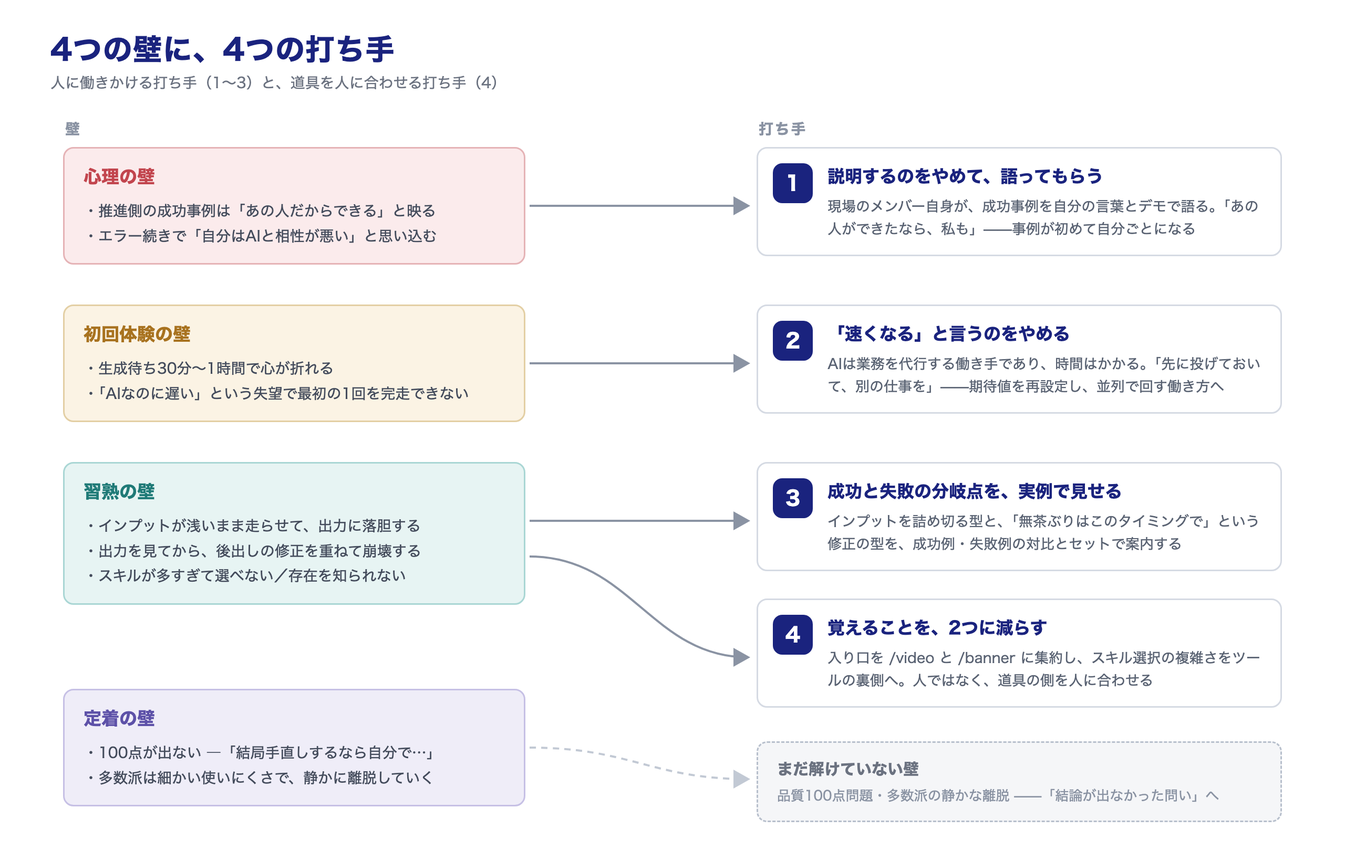
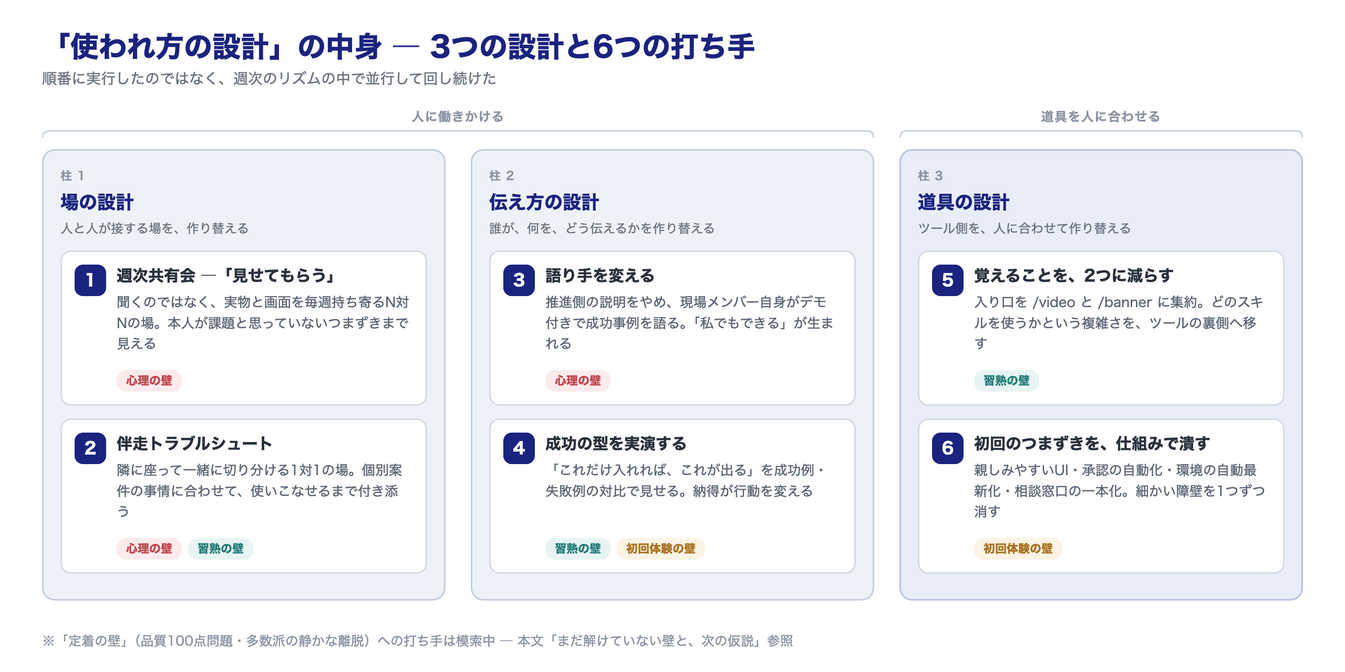
feat: 記事#11を最終版に全面改稿 — タイトル確定・3つの設計×6打ち手・図3枚構成
- タイトル「AIツールは、作っただけでは使われない ― 現場定着の4つの壁」に確定
- 打ち手を「場・伝え方・道具」の3本柱×6つに再構成（伴走トラブルシュートを追加）
- 「一旦投げとく」を学びの本論へ移動——期待値再設定→インパクト実感→好循環の連鎖として言語化
- 結果にスキル利用率ほぼ100%を追加、日本語表現の全面推敲
- 図3枚: 4つの壁×23障壁（横並び）/ 3つの設計×6打ち手 / 好循環vs悪循環
- content-registryのタイトル・summary・topics更新

Claude-Session: https://claude.ai/code/session_012RuZz59BbJzKkWMYC1548E

diff --git a/articles/11_ai-adoption-practice.md b/articles/11_ai-adoption-practice.md
@@ -1,5 +1,5 @@
 ---
-タイトル: AIで仕事は速くならない ― 現場定着の壁と、効いた4つの打ち手
+タイトル: AIツールは、作っただけでは使われない ― 現場定着の4つの壁
 カテゴリ: 組織・人材論
 発表者: 渡橋勇輝
 公開日誌日: 2026-07-06
@@ -9,146 +9,222 @@
 
 【BizDev公開日誌 #11】
 
-「導入した」と「使われている」は、別物——前回の記事で、私たちはAIツールと現場のあいだに必要な「橋渡し」について書きました。今回はその実践編です。橋渡しを実際にやってみて、何が壁になり、どの打ち手が効いて、何が変わったのか。広告クリエイティブ制作のためのAIツール群——字コンテ、バナー、LPを生成するスキル——を、クリエイティブ制作チームに定着させる取り組みの数ヶ月を記録します。
+私たちはこの数ヶ月、広告クリエイティブ制作のためのAIツール群——字コンテ、バナー、LPを生成するスキル——を開発し、クリエイティブ制作チームに使ってもらう取り組みを続けてきました。
 
-作る側としては、品質に手応えがありました。実際に触ってもらえば、価値は伝わるはずだと。しかし、現実は違いました。使われてはいる。でも修正が多く、満足度は上がりきらない。整備したマニュアルは読まれない。質問も来ない。そして、生成待ちの1時間のあいだに、静かに心が折れていく人がいる。
+作る側としては、品質に手応えがありました。実際に触ってもらえば、価値は伝わるはずだと。
 
-先に種明かしをすると、定着を止めていたのは、ツールの性能ではありませんでした。壁は1つではなく、性質の違う4種類が重なっていた。そして、壁ごとに打ち手を変えたとき、初めて状況が動き始めました。
+しかし、現実は違いました。使われてはいる。でも修正が多く、満足度は上がりきらない。整備したマニュアルは読まれない。質問も来ない。そして、生成待ちの1時間のあいだに、静かに心が折れていく人がいる。
 
-[PUNCHLINE] ツールは変えていない。変えたのは「使われ方の設計」だけ。
+先に種明かしをすると、定着を止めていたのは、ツールの性能ではありませんでした。壁は1つではなく、性質の違う4種類が重なっていた。そして、壁ごとに打ち手を変えたとき、初めて状況が動き始めました。**ツールは変えていない。変えたのは「使われ方の設計」だけ**——これがこの記事の結論です。
+
+もう1つ、白状しておくと、私たちは伝え方も間違えていました。「AIを使えば速くなります」と案内していたのです。この一言が定着をどれだけ妨げていたかは、後半で書きます。
+
+## つくる側の誤算 ―「いいツールなら使われる」は幻想だった
+
+振り返ると、私たちの頭の中には素朴な方程式がありました。「品質の高いツールを作る → 触ってもらう → 価値が伝わる → 使われる」。だから品質を磨くことに時間を使い、使われない理由もまず品質に求めました。
+
+でも、現場で起きていたことは違いました。
+
+- ツールは使われている。しかし出力への修正が多く、「結局手直しするなら……」という空気が漂う
+- 丁寧に作ったマニュアルが、ほとんど参照されていない
+- 質問が来ない。うまくいっていないのに、何も聞かれない
+- 生成待ちの時間に、誰にも言わずに諦めている人がいる
+
+「使われていない」のではなく、「使われているのに、定着していない」。この症状の正体を特定しないことには、打ち手の立てようがありませんでした。
 
 ## 教科書は、ありませんでした
 
-取り組みの最初、私たちはまず先人の知恵に頼ろうとしました。AX・DX関連の書籍やWeb記事を片っ端からあたりましたが、出てくるのは「ビジネスモデルを変革せよ」という壮大な話ばかり。「現場のクリエイターにAIツールを使ってもらうには、具体的にどうすればいいか」という粒度の情報は、ほとんど存在しませんでした。
+取り組み始めた当初、私たちはまず先人の知恵に頼ろうとしました。AX・DX関連の書籍やWeb記事を片っ端からあたりましたが、出てくるのは「ビジネスモデルを変革せよ」という壮大な話ばかり。「現場のクリエイターにAIツールを使ってもらうには、具体的にどうすればいいか」という粒度の情報は、ほとんど存在しませんでした。
 
-考えてみれば当然で、この粒度の試行錯誤は各社の現場の中に埋まっていて、外には出てきません。答えが外にないなら、自分たちの現場から取るしかない。
+考えてみれば当然で、この粒度の試行錯誤は各社の現場の中に埋まっていて、外には出てきません。答えが外にないなら、自分たちの現場で見つけるしかない。
 
-そこで土台にしたのが、週次の「AI制作共有会」です。クリエイティブ制作チームの一人ひとりに、その週に何を作り、どこで詰まったかを、口頭の報告ではなく実際の画面やアウトプットと一緒に持ち寄ってもらう。うまくいった話だけでなく、失敗も同じテーブルに載せる。ヒアリングで「困っていることはありますか」と聞いても本音は出てきませんが、実物を見せてもらうと、本人が課題と認識していないつまずきまで見えてきます。
+そこで土台にしたのが、週次の「AI制作共有会」です。クリエイティブ制作チームの一人ひとりに、その週に何を作り、どこで詰まったかを、口頭の報告ではなく実際の画面やアウトプットと一緒に持ち寄ってもらう。うまくいった話だけでなく、失敗も同じテーブルに載せる。
 
-読み物としての事例を100本集めるより、自分たちの現場の一次情報を毎週定点観測するほうが、はるかに情報量が多い。ここから先のすべての打ち手は、この場から生まれています。
+これを続けて分かったのは、ヒアリングで「困っていることはありますか」と聞いても本音は出てこない、ということです。実物を見せてもらうと、本人が課題と認識していないつまずき——変な回り道、惜しい入力、諦めの早さ——まで見えてきます。
 
-## 壁は、1つではありませんでした
+## 使いこなしを阻む「4つの壁」― 観測してわかった障壁の全体像
 
-毎週の観測を続けると、「定着しない」という1つの現象の裏に、性質のまったく違う壁が何層も重なっていることが見えてきました。大きく4種類あります。
+毎週の観測を続けると、「定着しない」という1つの現象の裏に、性質のまったく違う壁が何層も重なっていることが見えてきました。使い始めから定着までの順に、大きく4種類あります。
 
-**心理の壁。** 推進側の成功事例は「あの人だからできる」と受け取られます。さらに深刻なのは、環境起因のエラーに連続で当たった人が、「自分だけAIと相性が悪い気がする」と、環境の問題を自分の適性の問題に変換してしまうことでした。そうなると、「元の自分のやり方のほうが早い」という引力に簡単に引き戻されます。
+![AIツールが定着しない裏側にある4つの壁。心理の壁・初回体験の壁・習熟の壁・定着の壁の順に、計23の障壁が現れる](../assets/article-images/11_ai-adoption-practice/img_01.png)
 
-**初回体験の壁。** 黒い画面（ターミナル）への抵抗感。認証・APIキー・アクセス権といった「スキル以前」の環境手続きでのつまずき。裏側の処理の許可を何度も求められ、「内容を見ても判断がつかない」まま手が止まる。そして、ようやく動いた最初の生成で30分〜1時間待たされる。ここで多くの人が、最初の1回を完走できずに離脱します。
+### 心理の壁 ― 使い始める前に立ち止まる
 
-**習熟の壁。** スキルは増やすほど現場が便利になるはず——が、実際には「どのスキルが何をしてくれるのか分からない」という声が増えていきました。新しいスキルの告知は各部署のチャンネルにバラバラに流れて、そもそも存在を知られない。使い始めても、インプットが浅いまま走らせて出力に落胆する。出力を見てから「やっぱりこうしたい」と後出しの修正を重ねて、崩壊する。
+最初の壁は、ツールに触れる前の心の中にあります。
 
-**定着の壁。** 出力は100点ではないので、「結局手直しするなら、自分でやったほうが……」となる。そして品質基準の厳しい多数派ほど、細かい使いにくさを口に出さず、静かに離れていきます。
+- **推進側の成功事例は「あの人だからできる」と映る。** 作った本人がうまく使えるのは当たり前で、聞く側にとっては自分ごとにならない
+- **エラー続きで「自分はAIと相性が悪い」と思い込む。** 実際には認証や環境設定の問題なのに、連続でつまずいた人はそれを自分の適性の問題として受け止めてしまう
+- **「元の自分のやり方のほうが早い」に引き戻される。** 初期の試行錯誤コストは、手慣れた従来手法への強力な引力になる
+- **忙しくて、新しいやり方を試す余裕がない**
+- **不満やつまずきを、自分からは言い出せない。** 聞かれても「大丈夫です」と答えてしまう
+- **AIで作った成果は、実力を割り引いて見られる気がする。** 使うほど評価が下がるかもしれない、という漠然とした不安
 
-![AIツールが定着しない4つの壁のツリー図。心理の壁・初回体験の壁・習熟の壁・定着の壁のそれぞれに、週次のAI制作共有会で観測された障壁が5〜6個ずつ紐づく（全23個）](../assets/article-images/11_ai-adoption-practice/img_01.png)
+やっかいなのは、この壁が「見えない」ことです。本人は何も言わずに、ただ使わなくなります。
 
-大事なのは、これらが性質の違う壁だということです。壁を特定しないまま「研修をやろう」「マニュアルを作ろう」と打っても、当たりません。実際、私たちが最初に整備したマニュアルは、ほとんど読まれませんでした。中身が悪かったからではなく、打つべき壁を間違えていたからです。
+### 初回体験の壁 ― 最初の1回にたどり着けない
 
-以下、壁とセットで、特に効果のあった打ち手を4つ紹介します。先に断っておくと、4つの壁をすべて崩せたわけではありません。どの壁が残っているかは、最後に正直に書きます。
+心理の壁を越えて「試してみよう」と思った人を、今度は物理的なつまずきが待ち構えます。
 
-![4つの壁と4つの打ち手の対応マップ。心理の壁→打ち手1「説明するのをやめて、語ってもらう」、初回体験の壁→打ち手2「『速くなる』と言うのをやめる」、習熟の壁→打ち手3「成功と失敗の分岐点を実例で見せる」と打ち手4「覚えることを2つに減らす」。定着の壁はまだ解けておらず「結論が出なかった問い」へつながる](../assets/article-images/11_ai-adoption-practice/img_02.png)
+- **黒い画面（ターミナル）への抵抗感。** 非エンジニアにとって、あの画面は「自分の領域ではない」というサインに見える
+- **認証・APIキー・アクセス権など「スキル以前」の手続きで止まる。** ツールの良し悪し以前に、スタートラインに立てない
+- **実行環境によって挙動が違い、謎のエラーに当たる。** 同じスキルなのに、人によって動いたり動かなかったりする
+- **裏側処理の承認を何度も求められ、判断がつかない。** 「この処理を許可しますか」と聞かれても、内容を見て判断できる人はいない
+- **生成待ち30分〜1時間で心が折れる。** 画面の前でじっと待った人は、確実に離脱する
+- **何を入れたら、何が、何分後に出るのか、先が見えない。** 見通しのない待ち時間は、実際より何倍も長く感じられる
 
-## 打ち手1：説明するのをやめて、語ってもらうことにした
+初回体験でつまずいた人の再挑戦率は、体感でかなり低い。「最初の1回」の設計は、それほど重要でした。
 
-**——「推進側の成功事例は、自分ごとにならない」という心理の壁に対して**
+### 習熟の壁 ― 使えるのに、成果が出ない
 
-当初の共有会では、私たちBizDev側が使い方や成功事例を説明していました。しかし、これがほとんど効きませんでした。
+最初の1回を越えても、「使える」と「成果が出る」のあいだには、まだ距離があります。ここが成否の分岐点でした。
 
-構図を考えれば当然です。作った本人がうまく使えるのは当たり前で、聞く側には「それはあなただからできる」と映る。どれだけ事例の数を増やしても、語り手が推進側である限り、「私でもできる」には変換されないのです。
+- **スキルが多すぎて、どれを使えばいいか分からない。** 作った側には自明でも、使う側から見ればカタログのないツール棚
+- **告知が分散して、スキルの存在自体を知られない。** 新しいスキルの案内が各部署のチャンネルにバラバラに流れ、届く人にしか届かない
+- **インプットが浅いまま走らせて、出力に落胆する。** 頭の中の情報を言語化せずに投げると、それなりのものしか出てこない
+- **出力を見てから、後出しの修正を重ねて崩壊する。** 完成物を見てから直したくなるのは人間の性だが、工程を無視した修正は制作の流れ全体を壊してしまう
+- **工程の仕組みを知らず、反映されない指示をしてしまう。** どの段階で何が確定するのかを知らないと、指示が空振りする
+- **うまくいかない時、粘るか引き直すかを判断できない。** 悪い出力に固執して修正を重ねるより、ゼロから再生成したほうが早い場面は多い
 
-そこで、共有会の構成を変えました。私たちが説明するのをやめ、クリエイティブ制作チームのメンバー自身にスピーカーになってもらい、成功事例を本人の言葉で、実際のデモを交えて語ってもらうことにしたのです。
+### 定着の壁 ― 続かない、広がらない
+
+そして最後に、使い続けてもらうための壁が残ります。
+
+- **100点が出ない。**「結局手直しするなら、自分でやったほうが……」という論理は、それなりに正しいだけに強い
+- **多数派は細かい使いにくさで、静かに離脱していく。** アーリーアダプターは多少の不便を我慢してくれるが、品質基準の厳しい多数派は不便を口に出さずに離れる
+- **マニュアルが「作り方」止まりで、実務まで完結しない。** 生成のやり方は書いてあっても、クライアントの修正要求に応えて「完成させる」までの手順が書かれていない
+- **AIを使えない案件があり、使う習慣が途切れる。** 商材や規制の制約で使えない案件を挟むと、せっかくの習慣がリセットされる
+- **利用上限・クレジット切れで、勢いが止まる。** 乗ってきたタイミングでの強制停止は、想像以上に熱を冷ます
+
+## 壁への対処 ―「使われ方の設計」は、3つの設計だった
+
+壁の全体像が見えてから、私たちは打ち手を重ねていきました。あとから振り返ると、やっていたことは3種類の「設計」に整理できます。**場の設計、伝え方の設計、道具の設計**。冒頭で「変えたのは使われ方の設計だけ」と書きましたが、その中身がこの3つです。
+
+断っておきたいのは、これらを順番に実行したわけではない、ということです。3つの設計は、週次のリズムの中で並行して回し続けました。そしてもう1つ、4つの壁をすべて崩せたわけでもありません。どの壁が残っているかは、最後に正直に書きます。
+
+![「使われ方の設計」の中身。場の設計（週次共有会・伴走トラブルシュート）、伝え方の設計（語り手を変える・成功の型を実演）、道具の設計（入り口の集約・つまずきの仕組み化）の3本柱×6つの打ち手](../assets/article-images/11_ai-adoption-practice/img_02.png)
+
+### 柱1【場の設計】― 人と人が接する場を、作り替える
+
+ツールを配って個人に任せきりにすると、つまずきは誰にも気づかれないまま放置されます。そこで、人が集まる「場」を意図的に用意しました。みんなで見せ合う場と、1対1で寄り添う場の2つです。
+
+#### 打ち手① 週次共有会 ―「言えない」を「見せてもらう」に変えた
+
+**→ 心理の壁「言い出せない」／全打ち手の観測基盤**
+
+共有会でのポイントは、「困っていることはありますか」と聞くのをやめて、「今週作ったもの、ちょっと画面ごと見せてください」に変えたことです。すると、本人が課題と思っていないつまずきが山ほど見つかります。逆に、こちらが想像もしていなかった上手な使い方も見つかる。成功と失敗の両方が同じテーブルに載ることで、後述する「分岐点の分析」が可能になりました。
+
+言い出せない人から話を引き出す最良の方法は、話させることではなく、見せてもらうことでした。
+
+#### 打ち手② 伴走トラブルシュート ― 隣に座って、一緒に切り分ける
+
+**→ 心理の壁「自分はAIと相性が悪い」／習熟の壁「個別案件でつまずく」**
+
+共有会がN対Nの場だとすれば、こちらは1対1の場です。
+
+スキルは汎用的に作りますが、案件は1つひとつ事情が違います。この商材ではこの表現が使えない、このクライアントは素材の要件が特殊——**個別案件の事情に合わせてスキルを使いこなせるようになるまでは、最初は隣に座って一緒にやるしかない**。それが伴走です。
+
+やること自体は派手ではありません。つまずいているメンバーと画面を一緒に見ながら、問題を1つずつ切り分ける。あるメンバーは、エラーが続いて「僕だけ、AIと相性が悪いんですよね」と言っていました。しかし一緒に画面を見ていくと、原因は本人ではなく認証まわりの環境設定。切り分けてしまえば、その日のうちに解決する話でした。ここで大事なのは速さです。**環境の問題を「自分の適性の問題」と誤認したまま放置すると、その人は二度と戻ってきません。**
+
+伴走の場では、運用のコツもその場で合意していきました。「初稿は70点でいい。仕上げは役割分担しよう」「うまくいかない出力に修正を重ねるより、ゼロから引き直したほうが早い」。マニュアルに書いても読まれなかったことが、自分の案件を題材にすると、その場で身につく。一般論では動かない人も、自分の案件でなら動きます。
+
+### 柱2【伝え方の設計】― 誰が、何を、どう伝えるかを作り替える
+
+場が整っても、伝え方を間違えると人は動きません。私たちは「誰が伝えるか」と「どう伝えるか」の2つを作り替えました。
+
+#### 打ち手③ 語り手を変える ― 説明するのをやめて、語ってもらう
+
+**→ 心理の壁「あの人だからできる」**
+
+当初の共有会では、私たちBizDev側が使い方や成功事例を説明していました。ただ、このやり方では浸透までに時間がかかりそうでした。作った本人がうまく使えるのは当たり前で、聞く側には「それはあなただからできる」と映りやすい。事例の数を増やしても、語り手が推進側である限り、「私でもできる」への変換はなかなか進まないのです。
+
+そこで、共有会の構成を変えました。私たちが説明するのをやめ、クリエイティブ制作チームのメンバー自身にスピーカーになってもらい、成功事例を本人の言葉で、実際のデモを交えて語ってもらうことにしました。
 
 効果ははっきり出ました。象徴的だったのが、メンバーの一人による動画素材の大量生成の回です。8シーン×2パターン、動画16本と静止画16枚、計32ファイルを、着手から納品まで1時間21分で仕上げた——従来の感覚なら「2〜3日はかかる」と誰もが見積もる分量です。本人が自分の画面で、どう指示し、どう待ち、どう仕上げたかを語ると、会の空気が変わる瞬間がはっきり分かりました。
 
-「あの人ができたなら、私もできるかもしれない」。そしてもう一つ、「同じ職種の人がここまでやっているなら、自分もやらないとまずい」という健全な焦り。同じ現場の、同じ職種の人が語ることで、成功事例は初めて自分ごとになります。
+「あの人ができたなら、私もできるかもしれない」。そしてもう1つ、「同じ職種の人がここまでやっているなら、自分もやらないとまずい」という健全な焦り。同じ現場の、同じ職種の人が語ることで、成功事例は初めて自分ごとになります。推進側が100回説明するより、現場の1回のほうが効く——この取り組みで最も確信を持てた学びの1つです。
 
-[PUNCHLINE] 推進側が100回説明するより、現場の1回のほうが効く。
+#### 打ち手④ 成功の型を実演する ―「これだけ入れれば、これが出る」
 
-## 打ち手2：「速くなる」と言うのをやめた
+**→ 習熟の壁「インプットが浅い」／初回体験の壁「先が見えない」**
 
-**——「生成待ちの時間で心が折れる」という初回体験の壁に対して**
+共有会に成功例と失敗例の両方が持ち寄られるようになって、決定的な発見がありました。同じLP制作スキルを使った2つのケースが、対照的な結果になったのです。一方はほぼ一発でデザイナーとの合意まで進み、もう一方は修正が重なって崩壊しかけた。
 
-もう一つ、根深かった壁が「待ち時間」でした。動画素材の生成には30分から1時間かかります。画面の前でじっと待っていた人は、確実に心が折れます。「AIなのに、遅い」と。
+分岐点は、スキルの性能ではありませんでした。うまくいったケースは、オリエンフォーマット——制作要件を整理する入力シート——を事前に詳細に詰め切ってから投げていました。どの訴求で、何を、どう作るか。入力に迷いがない状態でAIに渡している。うまくいかなかったケースは、入力を省略して頭の中の情報のまま走っていました。
 
-ここで気づいたのは、折れる原因は待ち時間そのものではなく、期待値の設定を私たちが間違えていたことでした。
+この対比はそのまま、何よりの教材になりました。共有会で「これだけ入れれば、これが出てくる」を目の前で実演すると、意外なほど納得してもらえます。抽象的に「インプットが大事です」と言われても人は動きませんが、同じツールで成功と失敗が分かれた実例を見ると、行動が変わる。**インプットに迷いがなければ、AIは滑らかに走る**——この感覚を、実例の共有を重ねて広げていきました。
 
-世の中のAI言説は「速くなる」一色です。私たちも最初はそう伝えていました。しかし、AIツールの実態は違います。
+### 柱3【道具の設計】― ツール側を、人に合わせて作り替える
 
-[PUNCHLINE] AIは作業を速くする道具ではない。業務を代行する働き手である。
+柱1・柱2は「人に働きかける」設計です。それに対して柱3は「道具を人に合わせる」設計。**人の行動を変えるには数ヶ月かかりますが、道具の側を作り替えるのは、AI時代には数日、ときには一晩でできます。**この非対称性は、定着を考えるうえで強力な武器になります。
 
-業務を丸ごと任せて、ちゃんとした成果物を作り込ませれば、それなりの時間がかかります。「速い」と期待して使えば、裏切られたと感じるのは当然でした。つまりこの壁の正体は、ツールの遅さではなく、期待値と実態のギャップです。ギャップは、伝え方で埋められます。
+#### 打ち手⑤ 覚えることを、2つに減らした ― 入り口の集約
 
-だから、こう変えました。「速くなります」ではなく——
+**→ 習熟の壁「スキルが多すぎて選べない」「存在を知られない」**
 
-「時間はかかります。だから先に投げておいて、別の仕事をしてください」
+スキルを増やすほど現場は便利になるはず——これも誤算でした。制作用のスキルが増えるにつれて、「どのスキルが何をしてくれるのか分からない」という声が増えていったのです。しかも新しいスキルの告知は各部署のチャンネルに散らばり、届く人にしか届かない。「スキルはあるのに、知られていないから使われない」という、もったいない状態が生まれていました。
 
-実は、使いこなしているメンバーはこれを無意識にやっていました。生成を裏で回しながら、別の案件を進める。複数の生成を同時に走らせる。夜に仕込んでおいて、朝に確認する。ただ、無意識のままでは誰にも伝わりません。「一旦投げとく」を公式の使い方として言語化したことで、チームの期待値が変わり、入り口で挫折する人が目に見えて減りました。
+対処はシンプルで、**入り口を集約する**ことでした。動画を作りたければ /video、バナーなら /banner。覚えるのはこの2つだけ。あとは要望を伝えれば、裏側で適切なスキルが自動的に選ばれて動きます。どのスキルを使うかという選択の複雑さを、ユーザーの手元からツールの裏側へ移した形です。
 
-そして、この働き方が馴染んでくると、生産性の意味そのものが変わってきます。1本あたりの生成時間は、今も昔も変わりません。しかし20本を並列で投げれば、1時間後には「1本あたり実質数分」で仕上がっている計算になります。先ほどの32ファイルの事例も、生成中に人が張り付いていた時間はほぼゼロ。「今夜中に50本必要」という無茶な状況ですら、寝る前に仕込んでおけば間に合う——現場からは、そんな運用感覚まで出てくるようになりました。
+#### 打ち手⑥ 初回のつまずきを、仕組みで潰した
 
-AIの生産性は「1タスクが何分速くなったか」には現れません。「裏で何本並列で走っているか」に現れます。そしてこの業務の進め方——投げて、待たずに、並べる——が組織に馴染んだとき、1人が同時に担当できる案件数という形で、初めて経営レベルの数字が動き始めます。ツールの導入ではなく、業務フローの組み替え。生産性の正体は、こちら側にありました。
+**→ 初回体験の壁「黒い画面」「承認の連打」「環境の劣化」**
 
-## 打ち手3：成功と失敗の分岐点を、実例で見せた
+初回体験の壁で見つかった物理的なつまずきを、1つずつ仕組みで潰していきました。
 
-**——「インプットが浅い」「後出しの修正で崩壊する」という習熟の壁に対して**
+- 黒い画面に抵抗がある人には、デスクトップ版など親しみやすいUIを案内する
+- 「この処理を許可しますか」の連打には、安全な範囲で自動承認されるモードでの起動方法を用意する
+- ファイル環境が古くなって壊れる問題には、起動時に自動で最新化される仕組みを仕込む
+- エラーや使い方の相談は、専用の窓口フォームに一本化して、たらい回しを防ぐ
 
-共有会には、成功例だけでなく失敗例も持ち寄られます。あるとき、同じLP制作スキルを使った2つのケースが、対照的な結果になりました。一方はほぼ一発でデザイナーとの合意まで進み、もう一方は修正が重なって崩壊しかけた。
-
-分岐点は、スキルの性能ではありませんでした。
-
-うまくいったケースは、オリエンフォーマット——制作要件を整理する入力シート——を事前に詳細に詰め切ってから投げていました。どの訴求で、何を、どう作るか。入力に迷いがない状態でAIに渡している。一方うまくいかなかったケースは、入力を省略して頭の中の情報のまま走り、出力を見てから「やっぱりランキングを入れたい」「ここを変えたい」と、後出しの要望を重ねていました。
-
-完成物を見てから直したくなるのは、人間の性です。私たち自身、クライアントの立場なら同じことをするでしょう。だから「後出しをやめてください」とは言いません。代わりに、工程の作法を決めました。
-
-AIの制作パイプラインは、文字の構成案 → HTMLの構成 → 画像・デザインと段階が分かれていて、それぞれに「ここまでに言ってもらえれば反映できる」というゲートがあります。言いたいことはHTMLの段階までに言い切る。最後の画像の仕上がりは当たり外れのある「ガチャ」なので、そこでこだわり続けるより引き直したほうが早い。——この作法を、「要望や無茶ぶりは大歓迎。ただし、このタイミングで」という型にして、成功例・失敗例の対比とセットで案内するようにしました。
-
-「これだけ入れれば、これが出てくる」を実演すると、意外なほど納得してもらえます。
-
-[PUNCHLINE] インプットに迷いがなければ、AIは滑らかに走る。
-
-## 打ち手4：覚えることを、2つに減らした
-
-**——「スキルが多すぎて、どれが何をしてくれるのか分からない」という習熟の壁に対して**
-
-スキルを増やすほど現場は便利になるはず——これも誤算でした。制作用のスキルが増えるにつれて、「どのスキルが何をしてくれるのか分からない」という声が増えていったのです。作った側には自明でも、使う側から見ればカタログのないツール棚です。しかも新しいスキルの告知は各部署のチャンネルに散らばり、届く人にしか届かない。「スキルはあるのに、知られていないから使われない」という、もったいない状態が生まれていました。
-
-対処はシンプルで、入り口を集約することでした。動画を作りたければ /video、バナーなら /banner。覚えるのはこの2つだけ。あとは要望を伝えれば、裏側で適切なスキルが自動的に選ばれて動きます。どのスキルを使うかという選択の複雑さを、ユーザーの手元からツールの裏側へ移した形です。あわせて、スキルの告知も1つの場所に集約しました。
-
-注目したいのは、アプローチの違いです。打ち手1〜3は「人に働きかける」——見せ方を変え、期待値を変え、作法を教える。それに対してこの打ち手は「道具を人に合わせる」。人の行動を変えるには数ヶ月単位の時間がかかりますが、道具の側を作り替えるのは、AI時代には数日、ときには一晩でできます。
-
-[PUNCHLINE] 人を変えるには数ヶ月かかる。道具を変えるのは、一晩でできる。
+1つひとつは地味です。しかし初回体験の壁は「細かいつまずきの積み重ね」でできているので、対処も積み重ねるしかありません。ここを「本人のリテラシーの問題」と片付けた瞬間に、定着は止まります。
 
 ## 結果、何が変わったか
 
 数ヶ月の取り組みを経て、目に見える変化が出てきました。
 
-- 動画素材の大量生成が実案件で回り始めた（32ファイル・1時間21分。従来の見積もりは2〜3日）
-- メンバーがAIで制作したメインバナーが、複数案のコンペで採用された
-- 入力を詰め切って投げたLPが、構成修正なしの一発でデザイナー合意まで進んだ
-- そして何より、「生成を裏で回しながら別の仕事をする」働き方が、こちらが言わなくても自然に広がり始めた
+- **スキルの利用率が、ほぼ100%になった。** クリエイティブ制作チームのほぼ全員が、日々の制作でスキルを使う状態になった
+- **動画素材の大量生成が実案件で回り始めた。** 32ファイルを1時間21分で納品（従来の見積もりは2〜3日）。人が張り付いていた時間はほぼゼロ
+- **メンバーがAIで制作したメインバナーが、複数案のコンペで採用された。** 速いだけでなく、品質で選ばれた
+- **入力を詰め切って投げたLPが、構成修正なしの一発でデザイナー合意まで進んだ**
+- **字コンテ素材の量産が定常化した。** 週次で成果物が積み上がるペースになった
+- そして何より、**「生成を裏で回しながら別の仕事をする」働き方が、こちらが言わなくても自然に広がり始めた**
 
-強調したいのは、この間、道具の性能はほとんど変わっていないことです。変わったのは、使われ方の設計だけ。それでこれだけの差が出た——この事実が、私たちには何より重要でした。
+強調したいのは、この間、道具の性能はほとんど変わっていないことです。変わったのは、使われ方の設計——場と、伝え方と、道具。それでこれだけの差が出た——この事実が、私たちには何より重要でした。
 
-## 結論が出なかった問い
+## 学んだこと
+
+この数ヶ月を振り返って、学びは2つに集約されます。
+
+**1. 定着は、ツールの性能ではなく「使われ方の設計」で決まる。**
+壁は性質の違うものが4種類重なっています。壁を特定しないまま打つ施策——研修、マニュアル、機能追加——は当たりません。まず観測し、壁を見極め、壁ごとに打ち手を変える。遠回りに見えて、これが最短でした。
+
+**2. 最後の分かれ目は、仕事の進め方そのものを変えられるかだった。**
+
+冒頭で「伝え方を間違えていた」と書いた話を、ここで回収します。
+
+世の中のAI言説は「速くなる」一色で、私たちも最初はそう伝えていました。しかし、AIツールの実態は、作業の高速化というより**業務の代行**に近い。ちゃんとした成果物を作り込ませれば、動画素材の生成なら30分から1時間かかります。「速い」と期待した人が画面の前で1時間待たされれば、裏切られたと感じるのは当然でした。だから伝え方を変えました。「速くなります」ではなく、**「時間はかかります。だから先に投げておいて、別の仕事をしてください」**。
+
+振り返ると、この「一旦投げとく」ができるようになるか——仕事の進め方そのものを変えられるか——が、定着した人としなかった人の分かれ目でした。
+
+進め方を変えられた人には、連鎖が起きます。先に投げて、空いた時間で別の仕事を進める。同じ1日で仕上がる量が目に見えて増える。ここで初めて**AIツールのインパクトを実感し**、もっと使いたくなる。使うほど習熟し、習熟するほど成果が出る——好循環が回り出して定着が進む、その最初の一押しが「進め方の転換」でした。逆に、「速くなる」を文字通りに受け取ったまま1件投げては待つ使い方をしていると、この連鎖は始まりません。待たされ、失望し、静かに離れていく。そして「速くなる」を文字通りに受け取っている人は、想像以上に多い。**この期待値のズレを最初に解消しておくことが、意外なほど大事な分岐点になります。**
+
+![同じツールでも進め方で正反対の循環に入る。「先に投げて別の仕事を」と進め方を変えた人は好循環が回り出して定着が進み、「速くなるはず」と待った人は失望して静かに離脱していく](../assets/article-images/11_ai-adoption-practice/img_03.png)
+
+進め方が変わると、生産性の景色も変わります。1本あたりの生成時間は昔と同じでも、20本を並列で投げれば1時間後には「1本あたり実質数分」。AIの生産性は「1タスクが何分速くなったか」ではなく**「裏で何本並列で走っているか」**に現れ、それが組織に馴染んだとき、1人が同時に担当できる案件数という形で、初めて経営レベルの数字が動き始めます。
+
+## まだ解けていない壁と、次の仮説
 
 もちろん、すべての壁を越えられたわけではありません。
 
-出力の満足度は、まだ100点には届きません。修正がゼロにならない中で、どこまで品質を追い込むべきか。品質基準の厳しい多数派は細かい使いにくさで静かに離脱していきますが、その一人ひとりに、どこまで個別に手を打つべきか。
+出力の満足度は、まだ100点には届きません。修正がゼロにならない中で、どこまで品質を追い込むべきか。品質基準の厳しい多数派は細かい使いにくさで静かに離脱していきますが、その一人ひとりに、どこまで個別に手を打つべきか。ノウハウが特定の個人の頭の中に溜まっていく属人化も、まだ解決できていません。
 
-そして最大の問いは、「人を変える」から「道具を合わせる」への傾斜を、どこまで進めるかです。技術的には、会議の議事録から初稿が自動で生成されている——人は結果を確認するだけ、という世界がすでに見え始めています。ただ、そこまで道具側に寄せることは、現場の育成や品質を見る目とのトレードオフでもあります。
+こうした残りの壁に対して、いま仕込み始めているのが観測の仕組み化です。共有会という観測には限界があります。静かに離脱していく人は、場には現れないからです。そこで、スキルの利用ログを自動で蓄積する仕組みを一部動かし始めました。本格化はこれからですが、ログから課題を抽出し、必要な人に知らせ、スキルの改善へ半自動で反映していく——**道具が自分で進化していく循環**を作れるかが、次のテーマの1つです。
 
-この問いに、まだ答えは出ていません。皆さんの組織では、AIの定着を「人を変えること」と「道具を合わせること」の、どちらから進めていますか？
+そして最大の問いは、「人を変える」から「道具を合わせる」への傾斜を、どこまで進めるかです。柱3（道具の設計）で手応えを得た方向の延長線上には、会議の議事録から初稿が自動で生成されていて、人は結果を確認するだけ——という世界が、技術的にはすでに見え始めています。プロセスそのものをなくしてしまえば、浸透という問題自体が消える。しかしそれは、現場の育成や、品質を見る目をどう維持するかとのトレードオフでもあります。
 
-## まとめ
+この問いに、まだ答えは出ていません。
 
-- 定着は、ツールの性能ではなく「使われ方の設計」で決まる
-- 答えは外部事例ではなく、自分たちの現場の一次情報にある
-- AIは仕事を速くしない。業務の進め方を組み替えた人だけが速くなる
-
----
-
-ツールを作る仕事から、使われ方を設計する仕事へ。私たちは軸足を移すことに決めました。
-
-まだ道半ばです。それでも、現場の一次情報を毎週観測しながら、「作った」と「使われている」のあいだを、埋め続けていきます。
+ツールを作る仕事から、使われ方を設計する仕事へ。私たちは軸足を移すことに決めました。まだ道半ばです。それでも、現場の一次情報を毎週観測しながら、「作った」と「使われている」のあいだを、埋め続けていきます。
 
 ---
 
